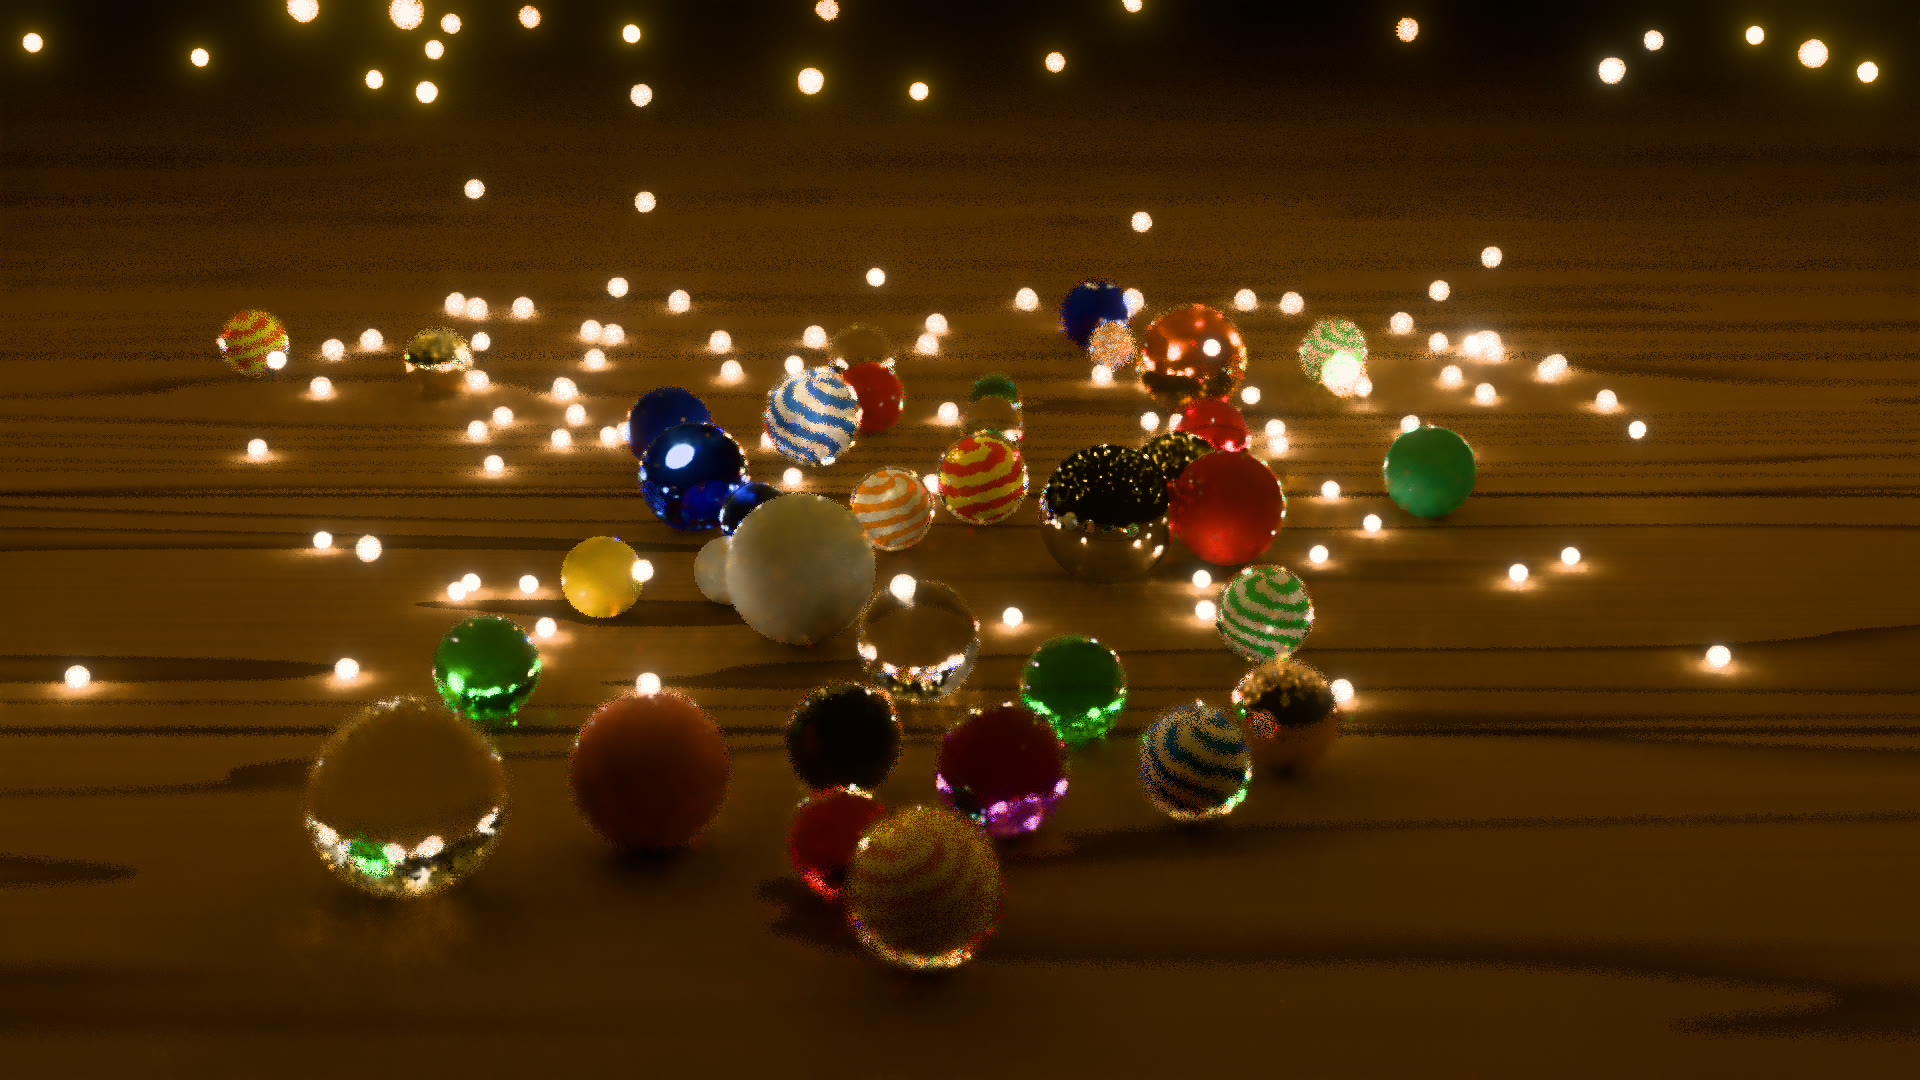
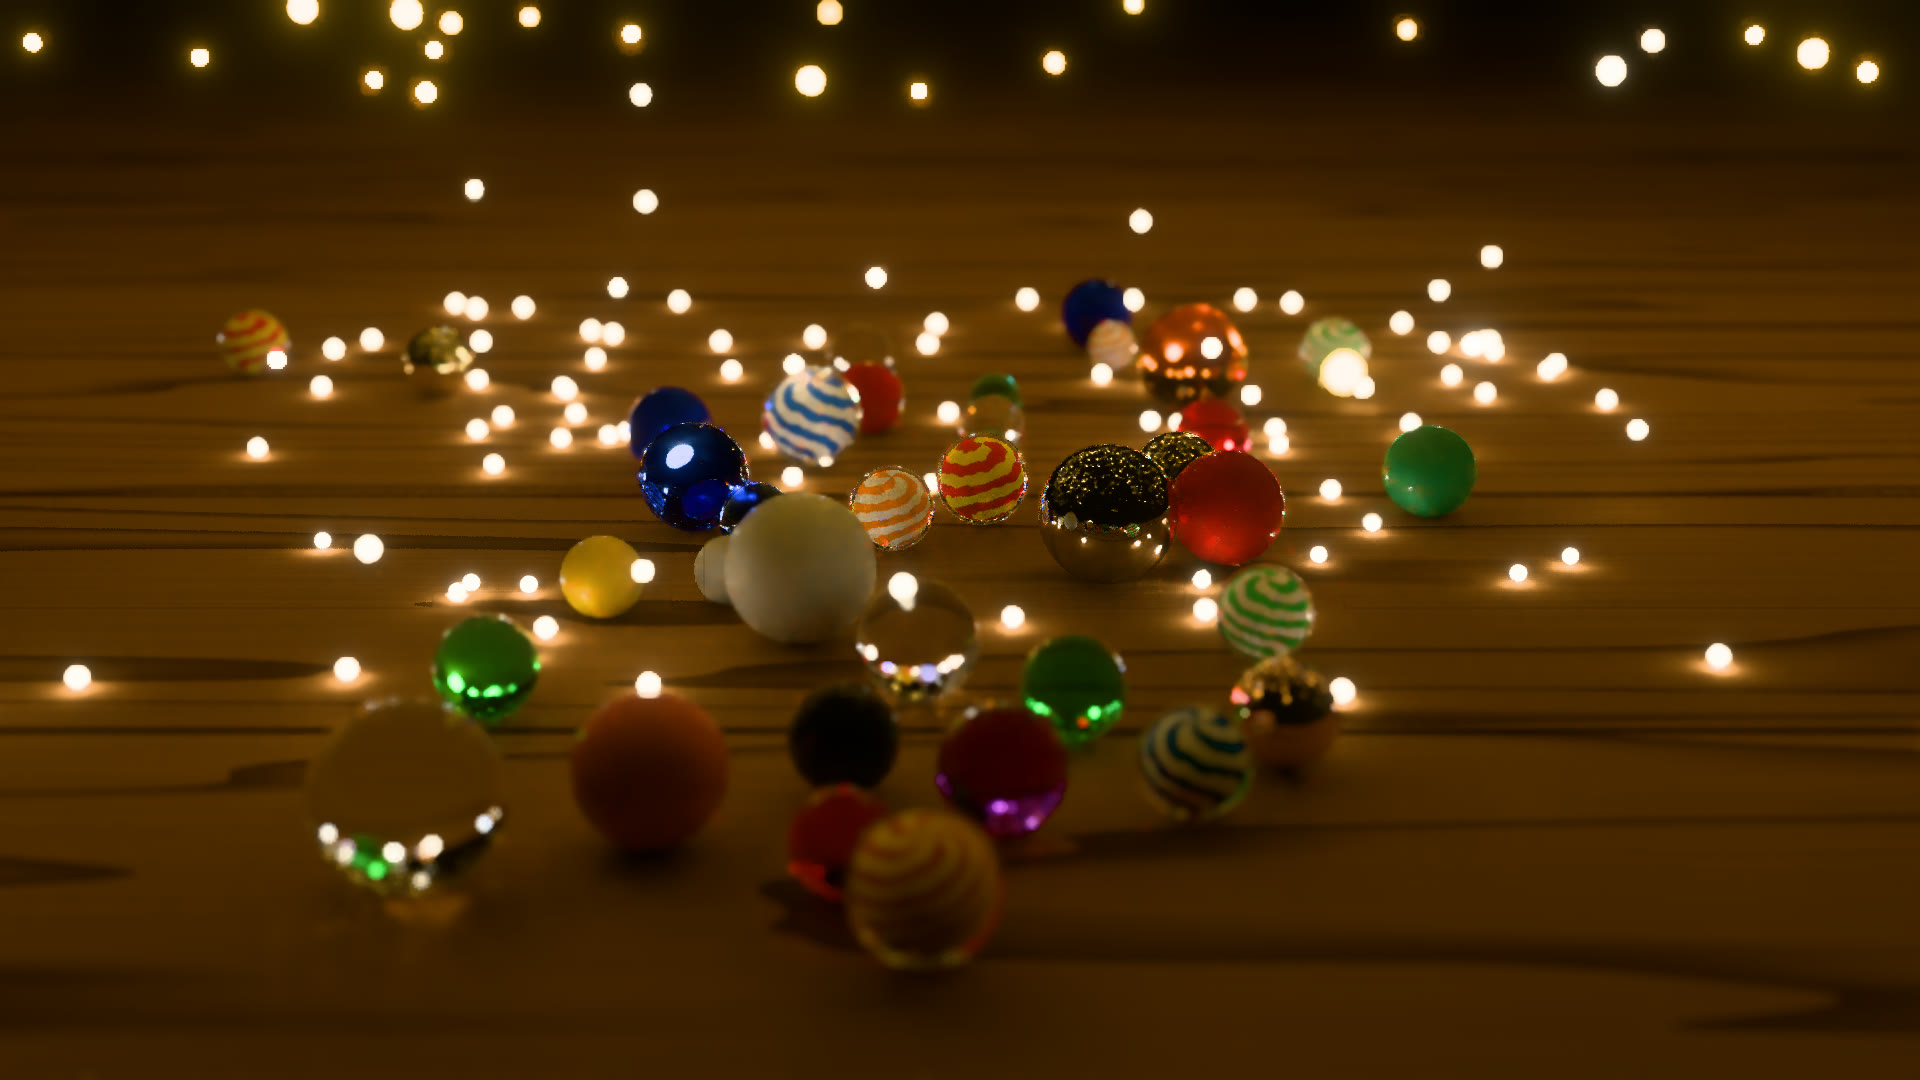
Milestone 4's write-up and docs corrected and brought to the close: the production sweep, the retrain on denoiser-v2, 57 fps at 1080p
The earlier 'retrain on checkerboard input' was not on checkerboard input;
corrected wherever it was claimed.

diff --git a/docs/writeups/milestone-4.md b/docs/writeups/milestone-4.md
@@ -1,8 +1,8 @@
 # Milestone 4: making the frame fast
 
-![The marbles twenty seconds into the opening, the swarm perched among them, traced in a checkerboard and denoised by the retrained network](images/marbles-m4-20s.jpg)
+![The marbles twenty seconds into the opening, the swarm perched among them, the near marbles softly out of focus](images/marbles-m4-20s.jpg)
 
-*Twenty seconds into the opening, at 60 frames a second on my M3 Max.*
+*Twenty seconds into the opening, at 57 frames a second on my M3 Max.*
 
 ## Where Milestone 3 left the frame
 
@@ -23,7 +23,7 @@ Milestone 3 uses those to decide how much each noisy neighbor should
 count, removes the noise, and fills in the full resolution. A tone map
 turns the light into display colors.
 
-That frame looked right. It ran at about 43 frames a second at
+That frame looked mostly right. It ran at about 43 frames a second at
 1920 × 1080, and about 13 at the full size of my laptop's display.
 
 ## What this milestone set out to do
@@ -34,11 +34,13 @@ much of it is computed each frame and how well the GPU is kept busy while
 doing it.
 
 This milestone applied four of those standard optimizations to the
-Milestone 3 pipeline and kept three. It also retrained the network for the
-input that changed. Here is the same frame, with each change marked where
-it acts:
+Milestone 3 pipeline and kept three. Then a closer look at the marbles
+sent me back over every stage of the frame, comparing each with how
+shipped engines build it, and that added four more changes. Finally, I
+retrained the network for the input that had changed. Here is the same
+frame, with each change marked where it acts:
 
-![Milestone 4's frame: the same stages, the light of frame N + 1 running at the same time as the image of frame N; shadow rays skipping the fireflies in the scene, path tracing, caustics and both reuse steps; those stages and shading running on half the pixels each frame, with a new fill stage for the untraced half; and the network retrained](images/pipeline-m4.svg)
+![Milestone 4's frame: the same stages, the light of frame N + 1 running at the same time as the image of frame N; shadow rays skipping the fireflies; the light stages running on half the pixels each frame, with a new fill stage; the network retrained; and, matched to shipped engines, a sharp trace with a depth-of-field stage after the network, and frames paced by the display](images/pipeline-m4.svg)
 
 ## Running the light and the image at the same time
 
@@ -116,28 +118,74 @@ and the untraced half drifted darker frame by frame. Taking only pixels
 that were actually traced fixed it. The image came out a little smoother
 and a little softer.
 
+## Checking the whole frame against shipped engines
+
+With those three in place, I looked at the marbles up close. The large
+ones nearest the camera had ragged, speckled outlines, and had since
+Milestone 3. The marbles further back were clean.
+
+The cause was where the blur came from. Serenity made its depth of field
+the way an offline renderer does: every pixel's ray passes through a
+random point on a lens, every frame. At a blurred edge, a single ray lands
+on the marble or on the table at random, so the surface information the
+network relies on flickered between the two from pixel to pixel, and the
+network kept that speckle as if it were a real edge. The near marbles are
+the most out of focus, so they suffered most.
+
+Real-time engines don't blur inside the trace. They trace a sharp image,
+denoise it, and apply depth of field afterward, using each pixel's depth.
+I had checked each optimization against production practice, but never
+the camera. So I went over every stage of the frame against how Unreal,
+NVIDIA's RTXDI and denoisers, and Apple's own samples do it, and kept four
+changes:
+
+- **Depth of field after the network.** The light is traced sharp, and a
+  new stage blurs the finished image by each pixel's distance from focus,
+  following the method from *Call of Duty: Advanced Warfare*, at half
+  resolution as shipped games run it.
+- **A fixed jitter pattern.** Upscalers like DLSS shift the camera by a
+  fraction of a pixel each frame along a fixed sequence and tell the
+  network the offset. Serenity's network upscales, so it now gets the same.
+- **Brighter lights drawn more often.** RTXDI picks which lights to sample
+  in proportion to their power, so noise moves away from dim fireflies
+  that barely matter.
+- **Frames paced by the display.** The window now renders when the display
+  asks for a frame, as Apple recommends, behind a seam that a Vulkan or
+  Xbox backend can implement its own way.
+
+![The near marbles before (left) and after (right): the speckled outlines become smooth, out-of-focus discs](images/m4-depth-of-field-near-marbles.jpg)
+
 ## Teaching the network the new input
 
-The network had learned from complete frames of light, and checkerboard
-changed what it sees, so I retrained it. The targets it learns toward come
-from the path tracer, which checkerboard does not change. Only the noisy
-inputs had to be rendered again:
+Checkerboard, the sharp trace and the jitter all change what the network
+sees, so I retrained it on a new data set. The targets it learns toward
+come from the path tracer, which now renders them sharp too, so this time
+everything had to be rendered again:
 
-![Retraining: the targets kept, the inputs rendered again with checkerboard on the Mac, training on the RTX 3090, the retrained network running in the renderer on the Mac](images/m4-retrain.svg)
+![Retraining: new sharp targets and new inputs, traced exactly as the demo traces, rendered on the Mac; training on the RTX 3090; the retrained network running in the renderer on the Mac](images/m4-retrain.svg)
+
+That was also where I found a mistake of my own. A first retrain I
+believed was on checkerboard input wasn't: the graph that renders the
+training inputs traced every pixel, because only the demo itself
+switched checkerboard on. Training data has to be exactly what the
+network sees at run time. So the input graph now traces the way the demo
+does, and a test checks that the two match, bit for bit, before anything
+is rendered.
 
 This was the first training run on my RTX 3090. Training now runs on
-either GPU. It keeps its data on the card when it fits, and in system
-memory when it doesn't, as on the 3090.
-
-The retrained network is about as accurate on the held-out marbles as the
-original was on complete frames.
+either GPU, keeping its data on the card when it fits and in system
+memory when it doesn't, as on the 3090. On the held-out marbles the
+retrained network has 22 to 41% less error than Intel's Open Image
+Denoise.
 
 ## Where it stands
 
-The fully lit scene now runs at 60 frames a second at 1920 × 1080 on my
-M3 Max, up from 43, and about 18 at my laptop display's full size, up from
-13. The largest gain came from tracing half the pixels. The smallest,
-running the two halves together, taught me the most.
+The fully lit scene now runs at 57 frames a second at 1920 × 1080 on my
+M3 Max, up from 43, and about 17 at my laptop display's full size, up
+from 13. Tracing half the pixels gained the most. Depth of field gave a
+little back, and was worth it: it is what made the near marbles look like
+glass instead of noise. Running the two halves together gained the
+least, and taught me the most.
 
 The network and the reuse steps are now the larger costs. The reuse steps
 merge reservoirs much as attention merges partial softmax results, and so

diff --git a/docs/process/MEMORY.md b/docs/process/MEMORY.md
@@ -410,21 +410,30 @@ rendering moved into functions tested directly (`src/headless/options.h`,
   checkerboard rendering of the light (how every denoised graph traces).
   The split scene is skipped on Metal, kept for the Vulkan and Xbox
   milestones.
-- **The network retrained on checkerboard input, by the user's decision,
-  2026-10-17/18:** new inputs over denoiser-v1's targets, kept by the user
-  (the masks moved them +0.1% in the mean), as
-  `../serenity-data/denoiser-v1-checkerboard`; the run
-  `denoiser-v1-runs/v1-wide-checkerboard`, exported to
-  `denoiser-v1-checkerboard-model/wide`, which the demo graph names and
-  `make weights` fetches. Kept by the user 2026-10-18.
+- **The network retrained on denoiser-v2** (2026-10-19, kept by the
+  user): the whole data set rendered again on the Mac (3.55 h), sharp,
+  checkerboarded and jittered as the demo traces, proved to the bit by
+  tests/gpu/features_test.cpp; trained on the RTX 3090 Ti (3.5 h);
+  exported to `../serenity-data/denoiser-v2-model/wide`, which the demo
+  graph names and `make weights` fetches. Corrects an earlier claim: the
+  2026-10-18 "checkerboard retrain" (denoiser-v1-checkerboard) was not
+  on checkerboard input, the input graph having traced every pixel.
+- **The production sweep** (`research/2026-10-18-production-sweep.md`,
+  kept by the user): depth of field after the denoiser (half resolution),
+  Halton jitter as two network inputs, light tiles drawn by power, frame
+  pacing by the display link behind a backend-neutral frame source (30 to
+  60 frames a second). **The user's rule: denoiser-v2 is the last
+  data-set render on the Mac; any later one waits for the RTX 3090
+  renderer.**
 - **Training runs on either GPU:** `train.py --device cuda|mps`, by
   default the machine's; the data is held on the GPU when it fits beside
   training's own memory, measured at the start, and in host memory when
   not. The RTX 3090 Ti (`ssh ai`, the checkout and environment under
   `/data/serenity`) is where training runs; the data set is rendered on
   the Mac and copied over.
-- **The final frame:** 16.7 ms at 1920 x 1080 (60 fps), 56.1 ms at the
-  window's 3456 x 2234 (17.8 fps).
+- **The final frame:** 17.5 ms at 1920 x 1080 (57 fps), 58.5 ms at the
+  window's 3456 x 2234 (17.1 fps), accepted by the user 2026-10-19 with
+  depth of field after the denoiser (before the sweep: 16.7 and 56.1).
 
 ## The production sweep (Milestone 4, 2026-10-18)
 

diff --git a/docs/research/2026-10-17-milestone-4-plan.md b/docs/research/2026-10-17-milestone-4-plan.md
@@ -478,6 +478,13 @@ traces its light, not a setting. Retrained on, below.
 
 ## Retraining on checkerboard input (2026-10-17/18)
 
+**Correction, 2026-10-18:** this retrain was not on checkerboard input.
+The data set's input graph (graphs/restir_pt_features.toml) had no denoise
+pass, and checkerboard tracing was tied to it, so these inputs were traced
+every pixel. The network the demo runs since 2026-10-19 is trained on
+denoiser-v2, whose inputs trace as the demo does
+(docs/research/2026-10-18-production-sweep.md).
+
 By the user's decision, the network trained again on checkerboarded light.
 
 **The data set: inputs new, targets reused.** The targets are the path
@@ -543,3 +550,20 @@ since then the cleanup removed code and kept every image, and the
 retrained network has the same shape. A frame's span on the GPU, from the
 light half's start to the image half's end: 112 ms at the window's size,
 33 at 1920 × 1080.
+
+## After the close: the production sweep (2026-10-18/19)
+
+The milestone reopened for a check of every stage against shipped
+engines: docs/research/2026-10-18-production-sweep.md. The final frame,
+measured as above on the merged tree with the network trained on
+denoiser-v2, 3 rounds within 0.1 ms (serenity-scratch/checkerboard/
+campaign_final_v2.sh, out-v2/):
+
+| Output, time | Before the sweep | After | frames a second |
+|---|---|---|---|
+| 3456 × 2234, t = 120 | 56.1 ms | 58.5 ms | 17.8 → 17.1 |
+| 3456 × 2234, t = 20 | 57.0 | 59.4 | 17.6 → 16.8 |
+| 1920 × 1080, t = 120 | 16.7 | 17.5 | 60.0 → 57.1 |
+| 1920 × 1080, t = 20 | 16.9 | 17.7 | 59.2 → 56.4 |
+
+Accepted by the user 2026-10-19.

diff --git a/README.md b/README.md
@@ -16,15 +16,17 @@ with the light traced at a lower resolution and brought up to the display’s.
 
 [![The marbles twenty seconds into the opening, the swarm perched among them: ReSTIR PT and MNEE traced in a checkerboard, denoised and upscaled to 1920 × 1080 by the retrained network](docs/writeups/images/marbles-m4-20s.jpg)](https://serenity.plainsight-systems.com/#film)
 
-**Current state: milestone 4.** The fully lit scene now runs at 60
-frames a second at 1920 × 1080 on my M3 Max, and about 18 at the full size
+**Current state: milestone 4.** The fully lit scene now runs at 57
+frames a second at 1920 × 1080 on my M3 Max, and about 17 at the full size
 of its display. Milestone 3 finished the pipeline; this milestone applied
 the standard optimizations real-time renderers use once the image is
 right. The light and the denoiser run at the same time on two GPU queues;
 shadow rays skip the 616 fireflies, which cast no shadow worth tracing;
 and each frame traces half the light’s pixels in an alternating
-checkerboard, rebuilding the other half from the frame before. I retrained
-the network on that input, for the first time on my RTX 3090.
+checkerboard, rebuilding the other half from the frame before. A check of
+every stage against shipped engines then moved depth of field after the
+denoiser, which cleaned up the near marbles, and I retrained the network
+on the new input, for the first time on my RTX 3090.
 
 Milestone 3 built the reconstruction. The renderer traces the
 light at a quarter of the output’s pixels and hands it to a small neural
